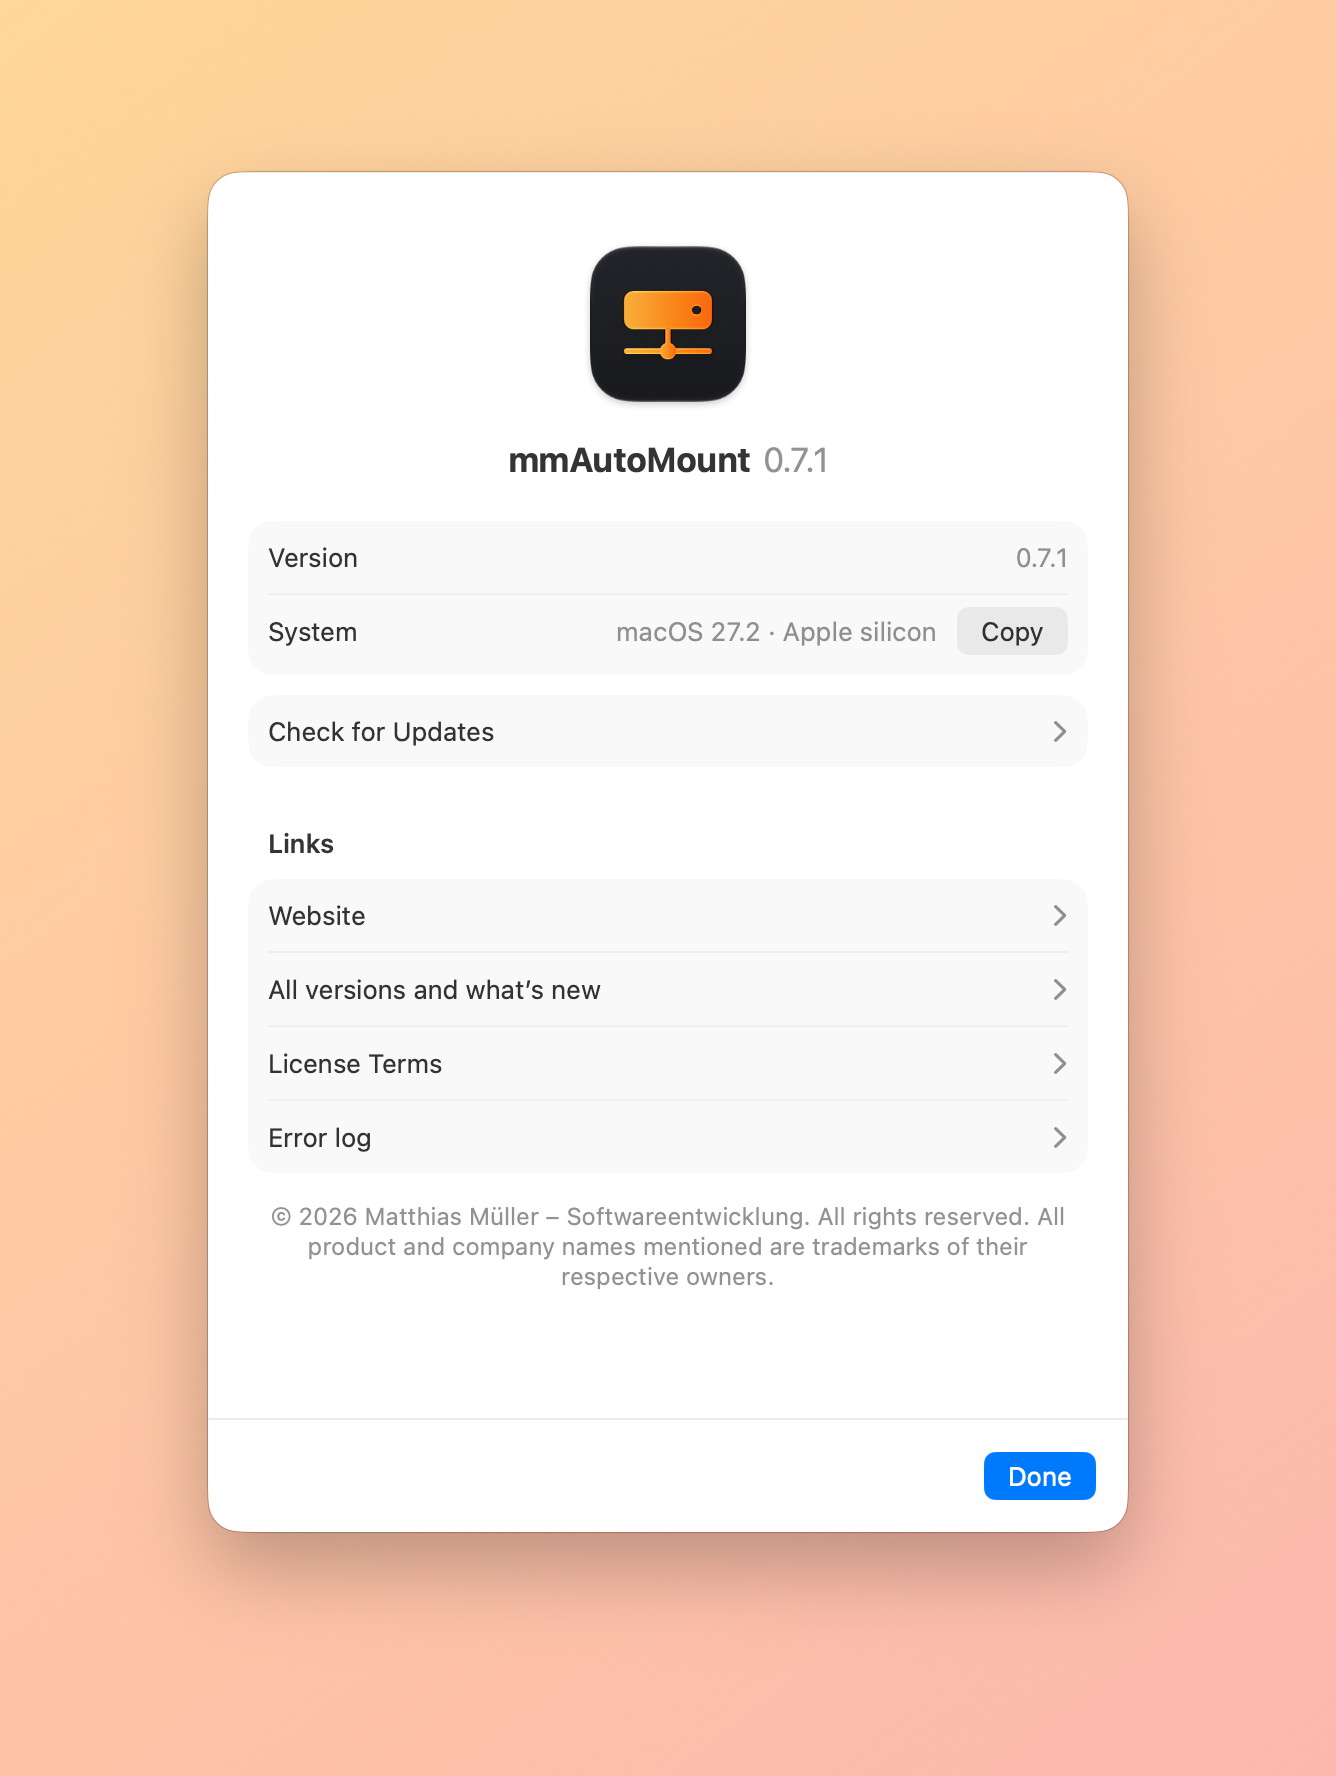
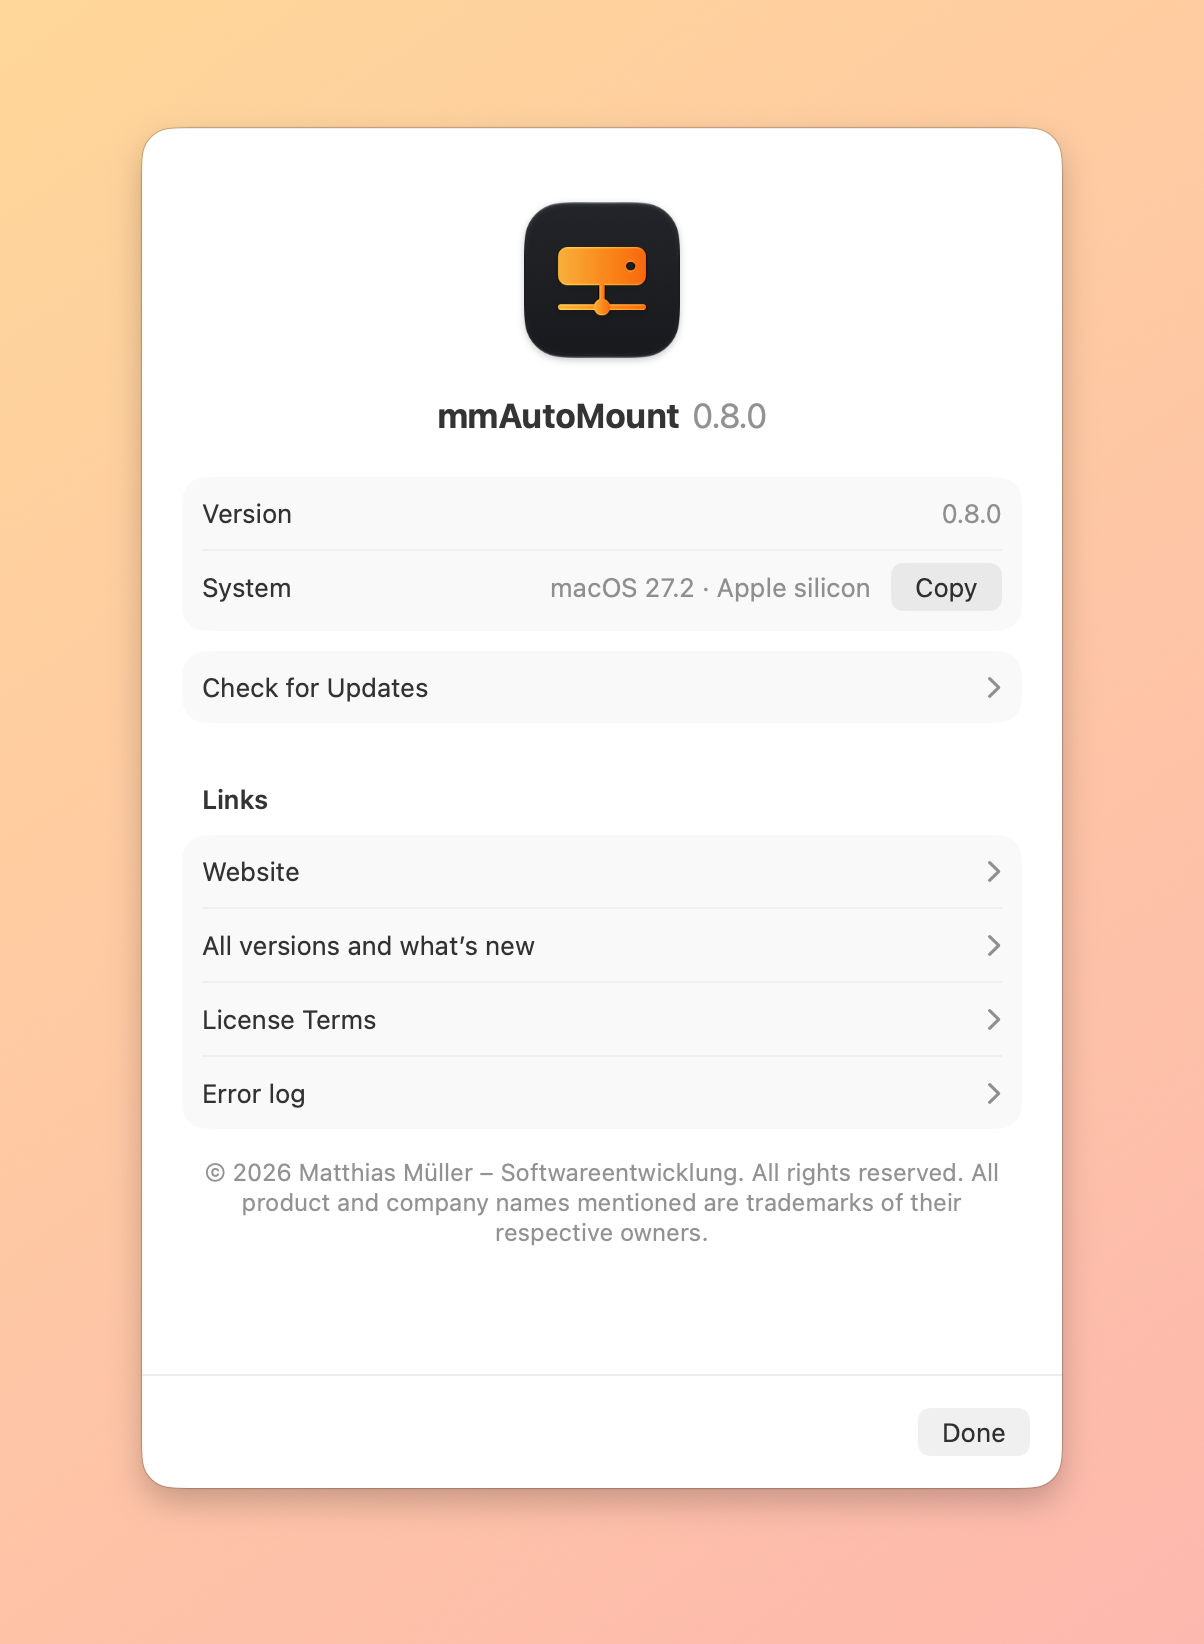
README und Bilder für 0.8.0: signiert und notarisiert

Changed region(s): [[0.0922, 0.062, 0.8912, 0.9307], [0.461, 0.3412, 0.7068, 0.3723]]

diff --git a/README.md b/README.md
@@ -68,10 +68,10 @@
 
 1. Unter [Releases](../../releases/latest) die Datei `mmAutoMount-<Version>.dmg` herunterladen.
 2. DMG öffnen und mmAutoMount in den Ordner „Programme“ ziehen.
-3. Beim ersten Start fragt macOS nach einer Freigabe: Systemeinstellungen › Datenschutz & Sicherheit › „Trotzdem öffnen“. Details stehen in der Anleitung in der DMG.
+3. Beim ersten Start fragt macOS nach dem Zugriff aufs lokale Netzwerk: „Erlauben“. Die App prüft damit nur, ob deine Server erreichbar sind.
 4. Unter „Netzwerklaufwerke“ die Laufwerke eintragen oder verbundene übernehmen, unter „Allgemein“ „Beim Anmelden starten“ einschalten.
 
-Danach aktualisiert sich mmAutoMount selbst: Die App sucht täglich nach neuen Versionen und installiert sie nach Bestätigung (Einstellungen › Allgemein › „Jetzt suchen …“). macOS fragt nach jedem Update einmal nach dem Zugriff aufs lokale Netzwerk – mmAutoMount löst die Frage gleich nach dem Update aus.
+Die App ist mit einer Apple Developer ID signiert und von Apple beglaubigt, sie startet also ohne Umwege. Danach aktualisiert sich mmAutoMount selbst: Die App sucht täglich nach neuen Versionen und installiert sie nach Bestätigung (Einstellungen › Allgemein › „Jetzt suchen …“).
 
 ## Voraussetzungen
 
@@ -117,10 +117,10 @@ mmAutoMount connects your network drives automatically as soon as you log in to 
 
 1. Download `mmAutoMount-<version>.dmg` from [Releases](../../releases/latest).
 2. Open the disk image and drag mmAutoMount to the Applications folder.
-3. On first launch macOS asks for your approval: System Settings › Privacy & Security › “Open Anyway”. The guide inside the disk image (in German) has the details.
+3. On first launch macOS asks whether the app may access your local network: “Allow”. It only uses this to check whether your servers are reachable.
 4. Add your drives under “Network Drives” or import the connected ones, and switch on “Launch at login” under “General”.
 
-After that mmAutoMount updates itself: it checks for new versions daily and installs them once you confirm (Settings › General › “Check Now…”). macOS asks for local network access once after every update – mmAutoMount brings that question up right after the update.
+The app is signed with an Apple Developer ID and notarized by Apple, so it opens right away. After that mmAutoMount updates itself: it checks for new versions daily and installs them once you confirm (Settings › General › “Check Now…”).
 
 ### Requirements
 
